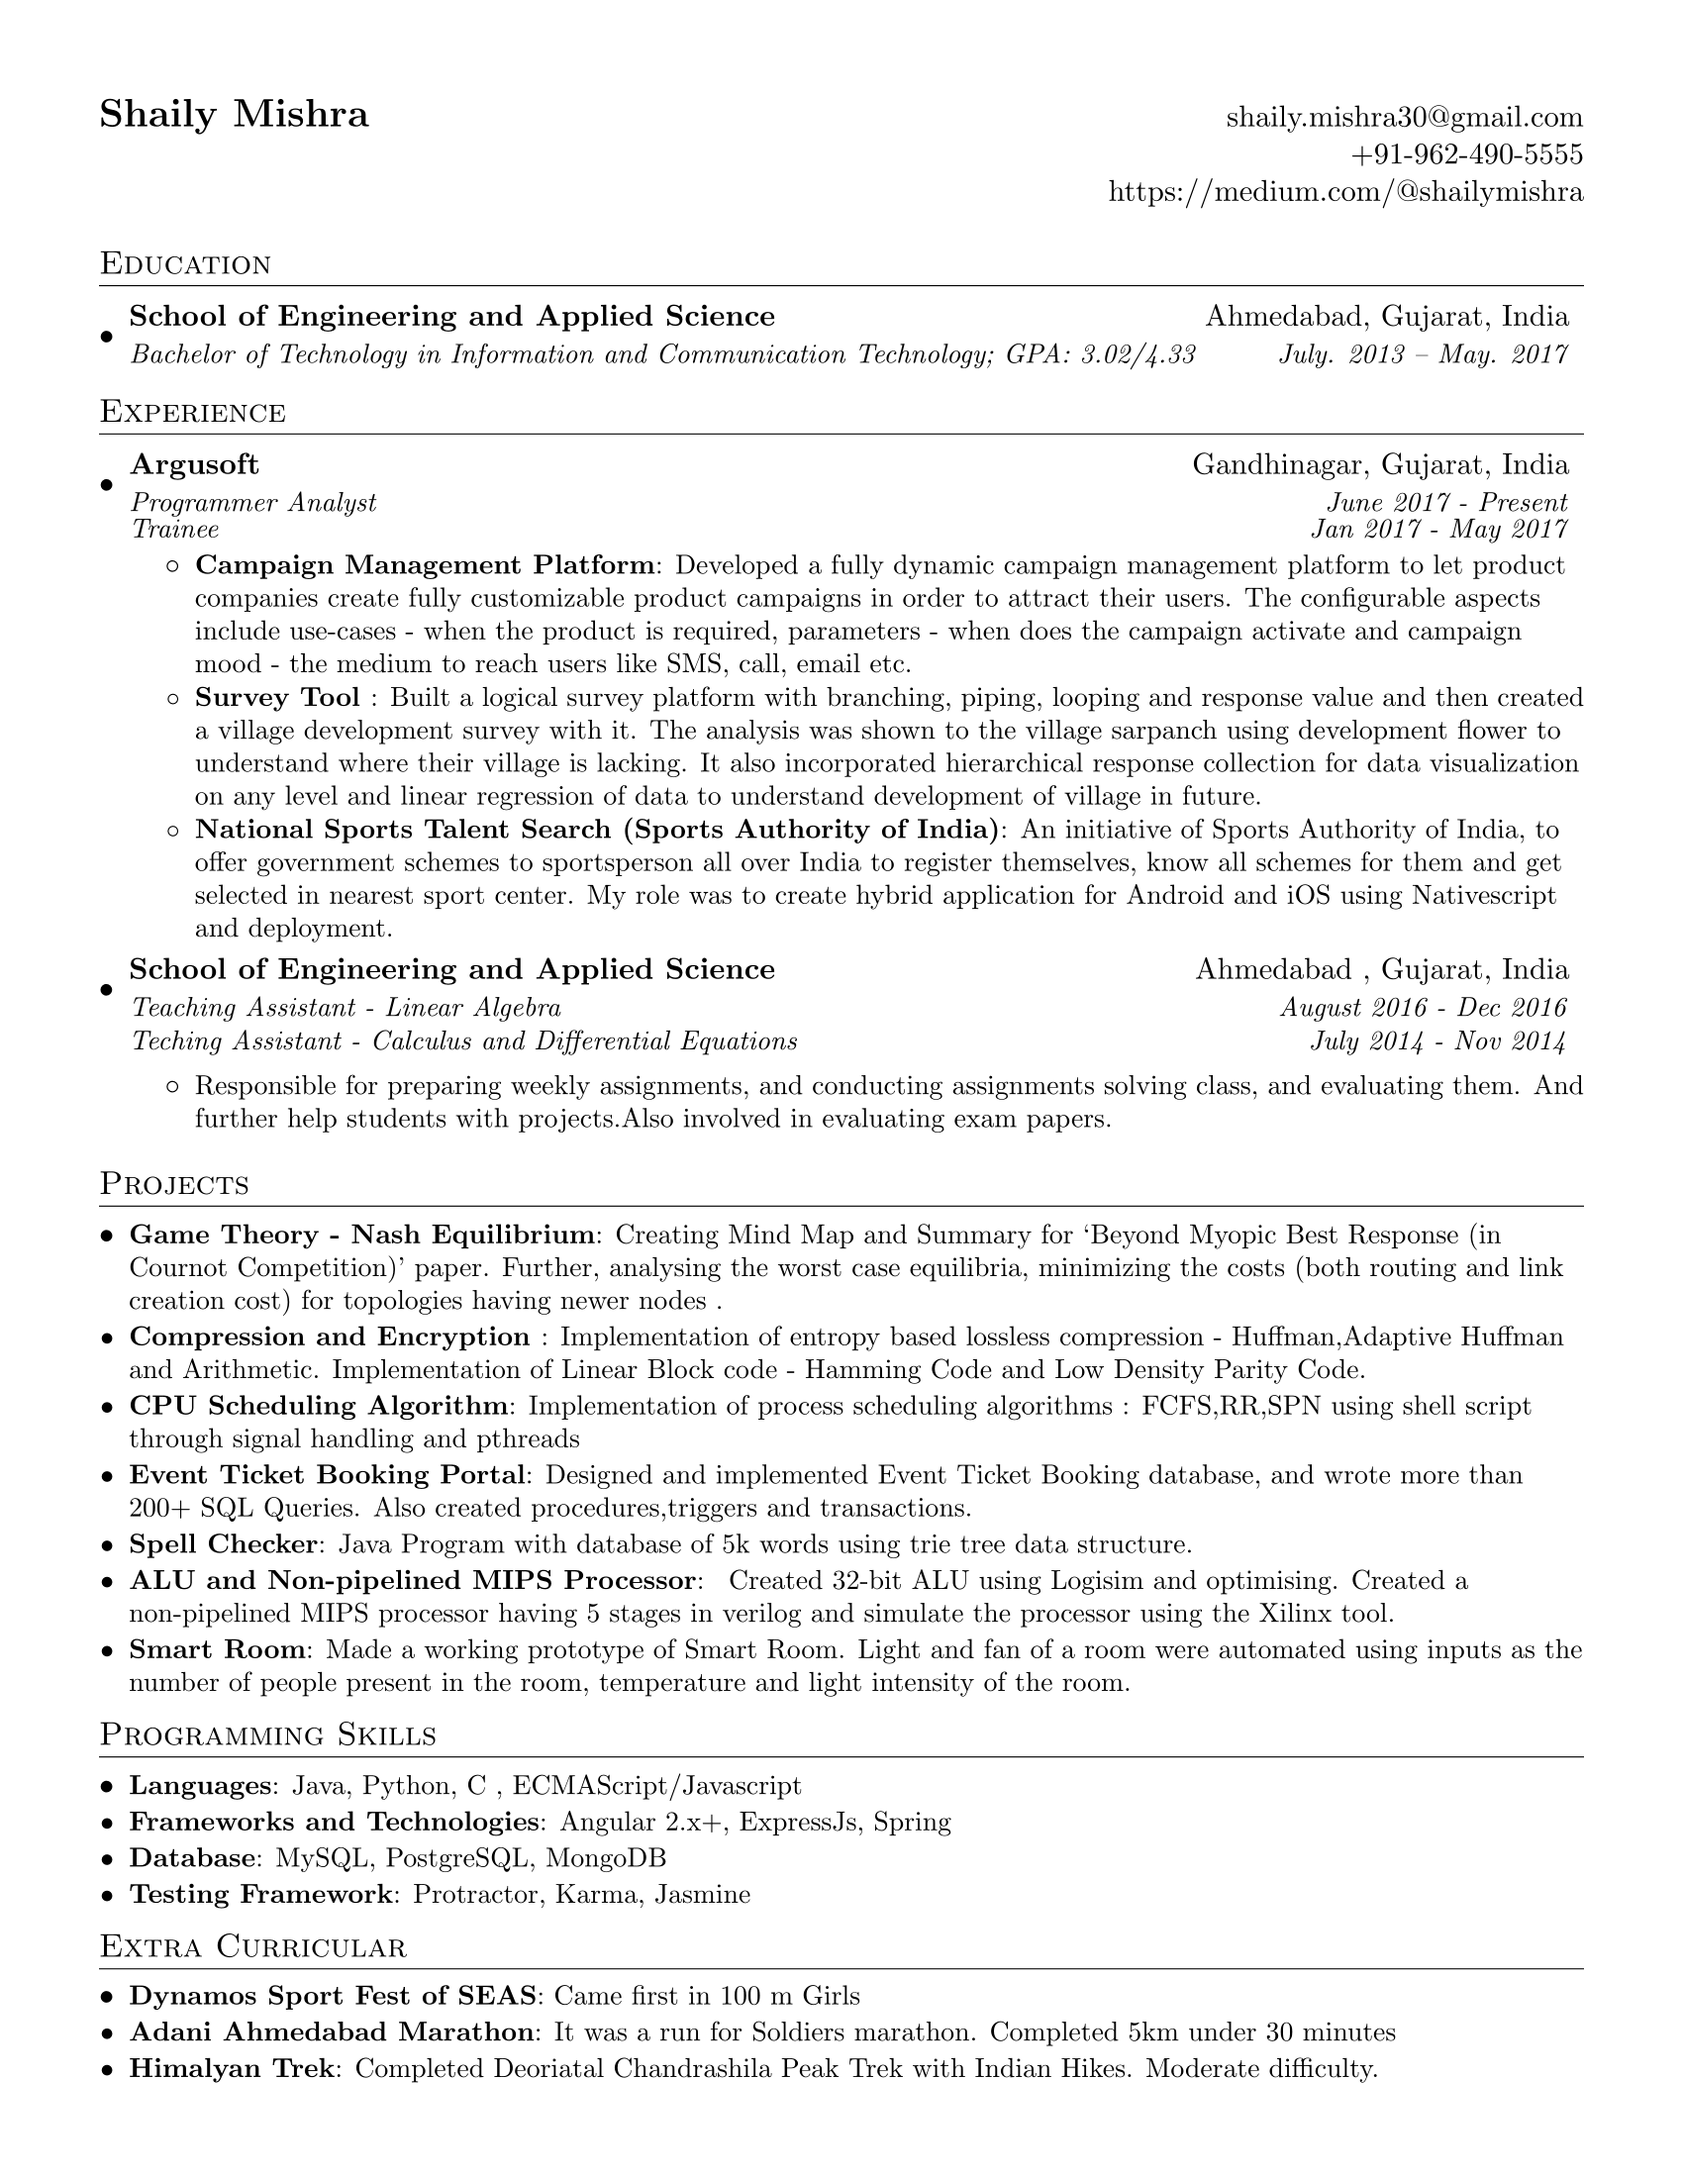
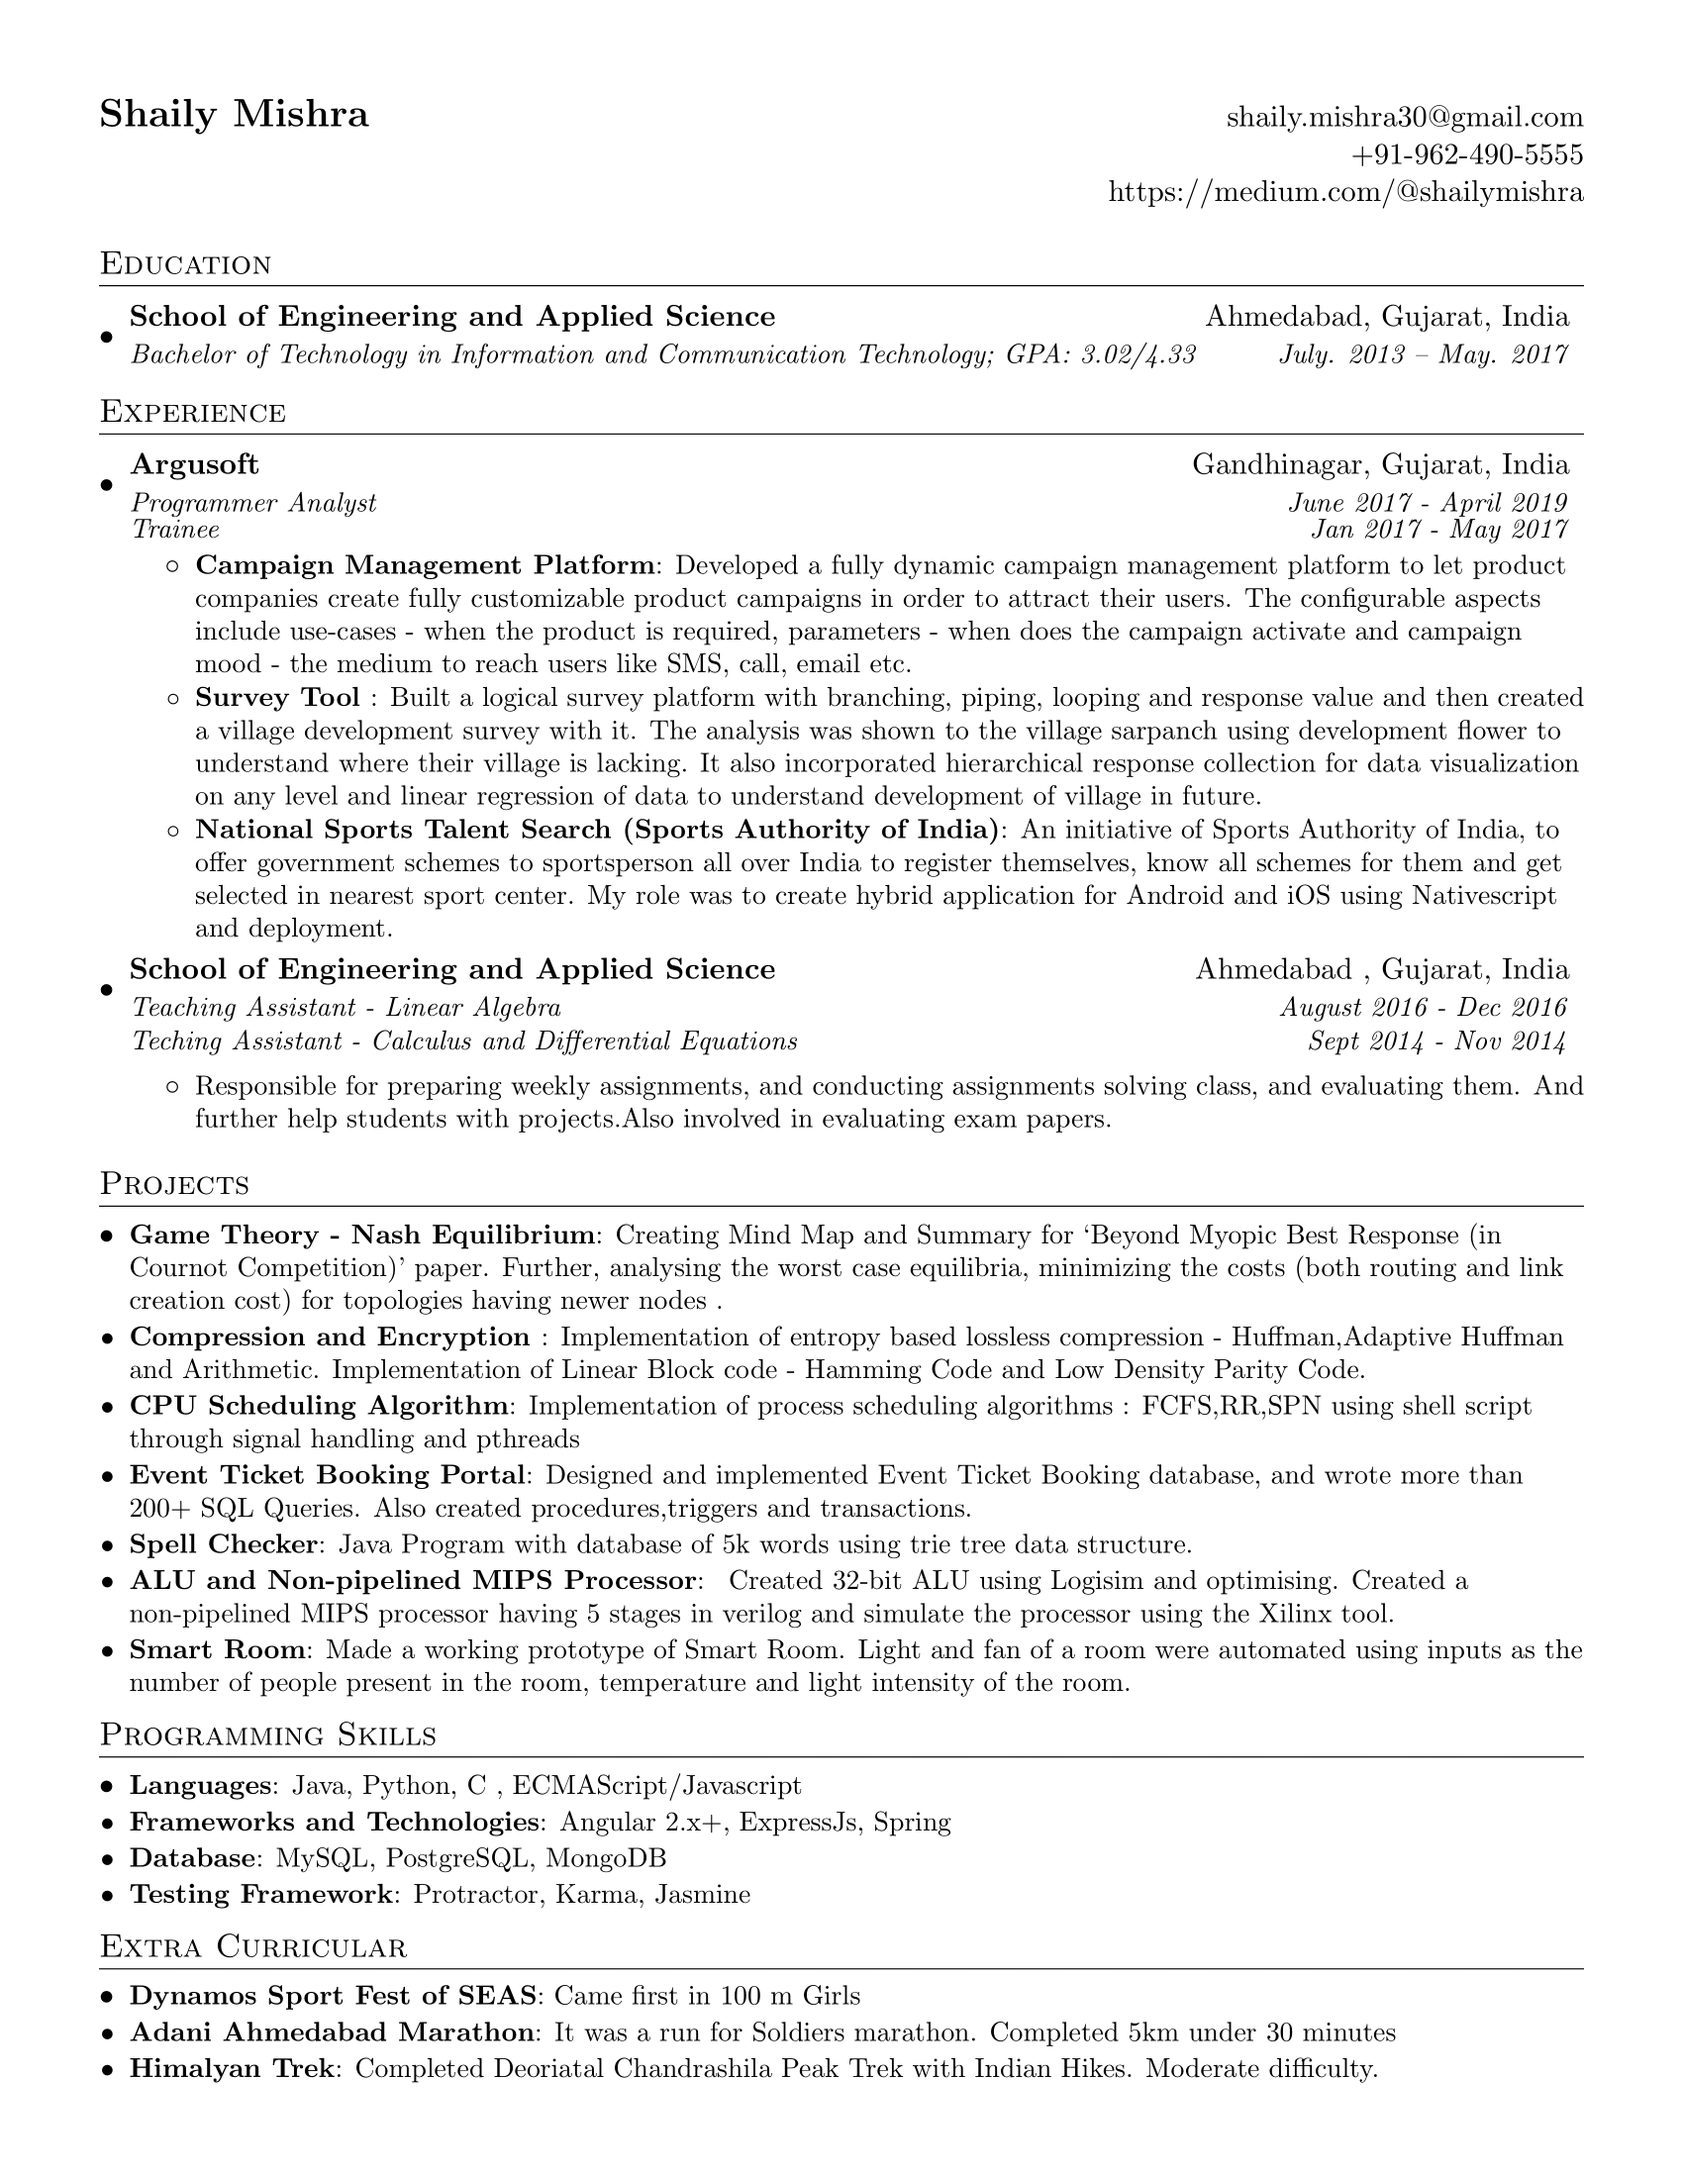
Changes

diff --git a/shaily.tex b/shaily.tex
@@ -106,7 +106,7 @@
 
     \resumeSubheading
       {Argusoft}{Gandhinagar, Gujarat, India}
-      {Programmer Analyst}{June 2017 - Present}
+      {Programmer Analyst}{June 2017 - April 2019}
           \vspace{-1pt}
       \begin{tabular*}{0.97\textwidth}{l@{\extracolsep{\fill}}r}
       	\textit{\small Trainee} 
@@ -131,7 +131,7 @@
       \vspace{-1pt}
       \begin{tabular*}{0.97\textwidth}{l@{\extracolsep{\fill}}r}
         \textit{\small Teching Assistant - Calculus and Differential Equations} 
-        & \textit{\small July 2014 - Nov 2014} \\
+        & \textit{\small Sept 2014 - Nov 2014} \\
       \end{tabular*}\vspace{-5pt}
 
       \resumeItemListStart
